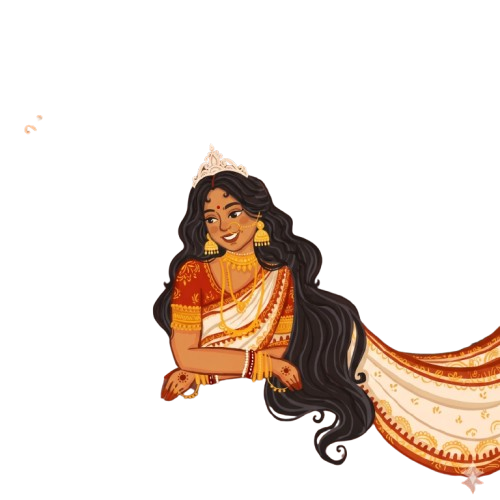
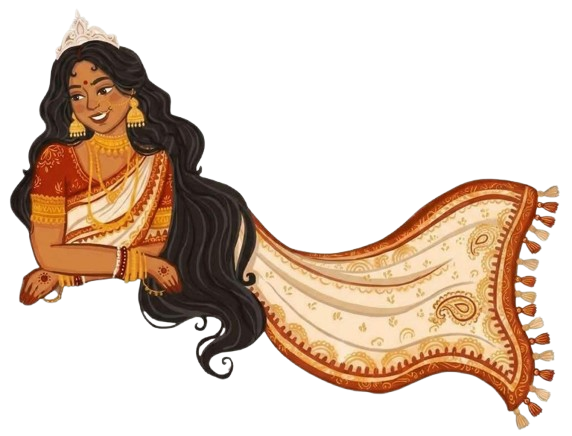
Phase 5: Scene 10 complete saree, 3-layer bike wheels, static background, and lower desktop text

diff --git a/src/scenes/scenes10to11.js b/src/scenes/scenes10to11.js
@@ -134,8 +134,6 @@ export function initScenes10to11(petals, prefersReducedMotion) {
 
   // --- SCENE 10 ---
   if (scene10) {
-    const isDesktop = window.innerWidth >= 1024;
-    const bgCanvas = scene10.querySelector('.s10-bg-canvas');
     const brideCanvas = scene10.querySelector('.s10-bride-canvas');
     const groomWrap = scene10.querySelector('.s10-groom-wrap');
     const chassis = scene10.querySelector('.s10-bike-chassis');
@@ -143,69 +141,16 @@ export function initScenes10to11(petals, prefersReducedMotion) {
     const titleBlock = scene10.querySelector('.s10-title-block');
     const detailsBlock = scene10.querySelector('.s10-details-block');
 
-    // Size background canvas to stage
-    const syncBgSize = () => {
-      if (!bgCanvas) return;
-      const rect = bgCanvas.getBoundingClientRect();
-      bgCanvas.width = Math.max(360, Math.round(rect.width));
-      bgCanvas.height = Math.max(540, Math.round(rect.height));
-    };
-    syncBgSize();
-
-    // Weighted mesh warp for background leaf tips only (pots, wall, window, road stay still)
-    const bgSrc = isDesktop ? '/assets/p10-desktop-background.webp' : '/assets/p10-background.webp';
-    const bgWarp = createWeightedMeshWarp(bgCanvas, bgSrc, 22, 22, (u, v, t) => {
+    // Weighted mesh warp for Bride (572x436): ONLY outer hair ends & saree trail wave; face, body, hands, jewellery stay still
+    const brideWarp = createWeightedMeshWarp(brideCanvas, '/assets/p10-bride.webp', 22, 18, (u, v, t) => {
       if (t === 0) return { wx: 0, wy: 0 };
-      let wx = 0, wy = 0;
-
-      if (isDesktop) {
-        // Top-left hanging vines (tips hang down from top edge)
-        const tl = (1 - smoothstep(0.0, 0.36, u)) * smoothstep(0.05, 0.42, v) * (1 - smoothstep(0.42, 0.50, v));
-        wx += tl * Math.sin(t * 1.15 + v * 5) * 4.5;
-        wy += tl * Math.cos(t * 0.95 + u * 4) * 1.5;
-
-        // Top-right hanging vines
-        const tr = smoothstep(0.64, 1.0, u) * smoothstep(0.05, 0.42, v) * (1 - smoothstep(0.42, 0.50, v));
-        wx += tr * Math.sin(t * 1.0 + 1.4 + v * 5) * 4.5;
-
-        // Window hanging pothos tips (around u: 0.58-0.65, v: 0.22-0.35)
-        const wp = smoothstep(0.57, 0.61, u) * (1 - smoothstep(0.64, 0.67, u)) * smoothstep(0.20, 0.32, v) * (1 - smoothstep(0.32, 0.38, v));
-        wx += wp * Math.sin(t * 1.4 + 2.2) * 3.5;
-
-        // Lower-left potted plant tips (above pots v: 0.43-0.73, pots sit at v > 0.75)
-        const ll = (1 - smoothstep(0.18, 0.35, u)) * smoothstep(0.73, 0.45, v) * smoothstep(0.38, 0.48, v);
-        wx += ll * Math.sin(t * 0.9 + 0.7 + u * 6) * 4.0;
-      } else {
-        // Mobile: top-left hanging vine tips
-        const tl = (1 - smoothstep(0.0, 0.56, u)) * smoothstep(0.04, 0.32, v) * (1 - smoothstep(0.32, 0.38, v));
-        wx += tl * Math.sin(t * 1.1 + v * 5) * 4.0;
-
-        // Mobile: window hanging pothos tips (right side)
-        const wp = smoothstep(0.88, 0.94, u) * smoothstep(0.18, 0.26, v) * (1 - smoothstep(0.26, 0.32, v));
-        wx += wp * Math.sin(t * 1.45 + 1.8) * 3.2;
-
-        // Mobile: left potted monstera tips (pot is below v=0.72)
-        const ll = (1 - smoothstep(0.10, 0.25, u)) * smoothstep(0.72, 0.55, v) * smoothstep(0.50, 0.57, v);
-        wx += ll * Math.sin(t * 0.95 + 0.6) * 3.5;
-
-        // Mobile: right lower plant tips (pot below v=0.76)
-        const rl = smoothstep(0.78, 0.92, u) * smoothstep(0.76, 0.62, v) * smoothstep(0.58, 0.65, v);
-        wx += rl * Math.sin(t * 1.2 + 2.6) * 3.5;
-      }
-
-      return { wx, wy };
-    });
-
-    // Weighted mesh warp for Bride: ONLY outer hair ends & saree trail wave; face, body, hands, jewellery stay still
-    const brideWarp = createWeightedMeshWarp(brideCanvas, '/assets/p10-bride.webp', 20, 20, (u, v, t) => {
-      if (t === 0) return { wx: 0, wy: 0 };
-      const hairWeight = smoothstep(0.57, 0.72, u) * smoothstep(0.55, 0.85, v);
-      const sareeWeight = smoothstep(0.72, 0.95, u) * smoothstep(0.58, 0.86, v);
+      const hairWeight = smoothstep(0.28, 0.42, u) * (1 - smoothstep(0.46, 0.54, u)) * smoothstep(0.56, 0.88, v);
+      const sareeWeight = smoothstep(0.45, 0.72, u) * smoothstep(0.42, 0.78, v);
       const w = Math.max(hairWeight, sareeWeight);
       if (w <= 0) return { wx: 0, wy: 0 };
       return {
-        wx: w * Math.sin(t * 1.6 + v * 5.0 + u * 2.0) * 5.5,
-        wy: w * Math.cos(t * 1.3 + u * 4.5) * 3.5,
+        wx: w * Math.sin(t * 1.5 + v * 5.0 + u * 2.0) * 5.0,
+        wy: w * Math.cos(t * 1.25 + u * 4.5) * 3.5,
       };
     });
 
@@ -291,7 +236,6 @@ export function initScenes10to11(petals, prefersReducedMotion) {
       end: 'bottom 18%',
       onEnter: () => {
         if (!prefersReducedMotion) {
-          bgWarp.start();
           brideWarp.start();
           bounceTween?.restart();
           entryTl?.restart();
@@ -299,19 +243,16 @@ export function initScenes10to11(petals, prefersReducedMotion) {
       },
       onEnterBack: () => {
         if (!prefersReducedMotion) {
-          bgWarp.start();
           brideWarp.start();
           bounceTween?.restart();
           entryTl?.restart();
         }
       },
       onLeave: () => {
-        bgWarp.stop();
         brideWarp.stop();
         resetEntry();
       },
       onLeaveBack: () => {
-        bgWarp.stop();
         brideWarp.stop();
         resetEntry();
       },

diff --git a/src/styles/scenes10to11.css b/src/styles/scenes10to11.css
@@ -14,11 +14,13 @@
   overflow: hidden;
 }
 
-.s10-bg-canvas {
+.s10-bg {
   position: absolute;
   inset: 0;
   width: 100%;
   height: 100%;
+  object-fit: cover;
+  object-position: center bottom;
   display: block;
   pointer-events: none;
   user-select: none;
@@ -26,9 +28,9 @@
 
 .s10-bride-wrap {
   position: absolute;
-  top: 9.5%;
-  right: -1%;
-  width: 53%;
+  top: 16%;
+  right: 2%;
+  width: 52%;
   z-index: 3;
   pointer-events: none;
   user-select: none;
@@ -68,30 +70,49 @@
   user-select: none;
 }
 
-/* Punch out only the inner spoke circles so fenders, fork, exhaust & rider never rotate */
+/* Layer 1: Base bike with full wheel circles punched out */
 .s10-groom-bike--body {
+  z-index: 1;
   -webkit-mask-image:
-    radial-gradient(ellipse 6.3% 11.3% at 19.43% 80.70%, transparent 96%, #000 100%),
-    radial-gradient(ellipse 6.5% 11.65% at 50.90% 81.64%, transparent 96%, #000 100%);
+    radial-gradient(ellipse 9.2% 16.5% at 19.43% 80.70%, transparent 96%, #000 100%),
+    radial-gradient(ellipse 9.5% 17.0% at 50.90% 81.64%, transparent 96%, #000 100%);
   -webkit-mask-composite: source-in;
   mask-image:
-    radial-gradient(ellipse 6.3% 11.3% at 19.43% 80.70%, transparent 96%, #000 100%),
-    radial-gradient(ellipse 6.5% 11.65% at 50.90% 81.64%, transparent 96%, #000 100%);
+    radial-gradient(ellipse 9.2% 16.5% at 19.43% 80.70%, transparent 96%, #000 100%),
+    radial-gradient(ellipse 9.5% 17.0% at 50.90% 81.64%, transparent 96%, #000 100%);
   mask-composite: intersect;
 }
 
+/* Layer 2: Rotating wheels only (spokes, rim, tyre) */
 .s10-wheel {
+  z-index: 2;
   will-change: transform;
 }
 
 .s10-wheel--rear {
-  clip-path: circle(7.8% at 19.43% 80.70%);
+  clip-path: circle(11.4% at 19.43% 80.70%);
   transform-origin: 19.43% 80.70%;
 }
 
 .s10-wheel--front {
-  clip-path: circle(8.05% at 50.90% 81.64%);
+  clip-path: circle(11.8% at 50.90% 81.64%);
   transform-origin: 50.90% 81.64%;
+}
+
+/* Layer 3: Static foreground (silencer, shock absorber, fender, chain/swingarm, rider's foot, front fork & brake) */
+.s10-bike-fg {
+  z-index: 3;
+}
+
+.s10-bike-fg--rear {
+  clip-path: polygon(
+    6% 62%, 28% 62%, 32% 75%, 32% 87%, 7% 87%, 7% 77%,
+    17% 77%, 17% 70%, 6% 70%
+  );
+}
+
+.s10-bike-fg--front {
+  clip-path: polygon(45% 63%, 51.5% 63%, 53.5% 83.5%, 48% 84.5%, 46% 74%);
 }
 
 .s10-text-layer {
@@ -186,10 +207,10 @@
   }
   /* Window opening in p10-desktop-background is around left 47.6%-64.6%, top 14%-39.5% */
   .s10-bride-wrap {
-    top: 13.5%;
-    left: 44.5%;
+    top: 18%;
+    left: 48%;
     right: auto;
-    width: clamp(205px, 19.5vw, 310px);
+    width: clamp(230px, 21vw, 340px);
   }
   /* Groom & bike at lower left */
   .s10-groom-wrap {
@@ -213,10 +234,10 @@
   .s10-quote {
     font-size: clamp(0.95rem, 1.15vw, 1.25rem);
   }
-  /* Second paragraph & dates below the window towards centre */
+  /* Second paragraph & dates moved down below window/saree/hair */
   .s10-details-block {
-    top: 46%;
-    left: 46%;
+    top: 57%;
+    left: 48%;
     right: auto;
     width: 26%;
     gap: 0.65rem;

diff --git a/index.html b/index.html
@@ -273,19 +273,24 @@
     <!-- Normal Section [10] -->
     <section id="scene-10" class="section-scene scene--10" data-scene="10" data-petals="false">
       <div class="s10-stage">
-        <canvas class="s10-bg-canvas" aria-hidden="true"></canvas>
+        <picture>
+          <source media="(min-width: 1024px)" srcset="/assets/p10-desktop-background.webp" />
+          <img src="/assets/p10-background.webp" alt="" class="s10-bg" loading="lazy" />
+        </picture>
 
         <!-- Bride leaning from the arched window (weighted mesh warp on outer hair & saree trail) -->
         <div class="s10-bride-wrap">
-          <canvas width="500" height="500" class="s10-bride-canvas" aria-label="Aindrila"></canvas>
+          <canvas width="572" height="436" class="s10-bride-canvas" aria-label="Aindrila"></canvas>
         </div>
 
-        <!-- Groom riding in on motorbike (masked wheel layers + chassis bounce) -->
+        <!-- Groom riding in on motorbike (3-layer: base -> rotating wheels -> static foreground parts) -->
         <div class="s10-groom-wrap">
           <div class="s10-bike-chassis">
             <img src="/assets/p10-groom-bike.webp" alt="Pabitrarghya on motorbike" class="s10-groom-bike s10-groom-bike--body" loading="lazy" />
             <img src="/assets/p10-groom-bike.webp" alt="" class="s10-groom-bike s10-wheel s10-wheel--rear" aria-hidden="true" loading="lazy" />
             <img src="/assets/p10-groom-bike.webp" alt="" class="s10-groom-bike s10-wheel s10-wheel--front" aria-hidden="true" loading="lazy" />
+            <img src="/assets/p10-groom-bike.webp" alt="" class="s10-groom-bike s10-bike-fg s10-bike-fg--rear" aria-hidden="true" loading="lazy" />
+            <img src="/assets/p10-groom-bike.webp" alt="" class="s10-groom-bike s10-bike-fg s10-bike-fg--front" aria-hidden="true" loading="lazy" />
           </div>
         </div>
 

diff --git a/SPEC.md b/SPEC.md
@@ -122,8 +122,8 @@ English: We Look Forward to Your Presence! | Only | Days | Hours | Minutes | Sec
 - **Scene 10 (Desktop, Mobile, Entry, Wheels & Wind)**:
   - **Desktop (`>=1024px`)**: Full-screen `assets/p10-desktop-background.png` (no side bars), heading/names/first paragraph at upper left-centre, bride in window at upper right, second paragraph/dates below window towards centre, groom & bike at lower left; whole window, bride, bike, and text visible at `1366×768` and `1920×1080`.
   - **Mobile (`<1024px`)**: Matches `page-10.png` with both shutters and complete bride visible, heading/names strictly left of window shutter, paragraphs clear of window/bride/bike (`360×640` and `390×844`).
-  - **Groom Entry & Wheels**: Starts fully off-screen left; begins only after Scene 10 is almost fully in view, riding in over ~5s (time-based, easing smoothly to a stop) and replaying only after leaving and returning. Masked wheel layers rotate both wheels while moving and stop with the bike (fenders, fork, exhaust, rider never rotate; no double wheels; slight engine bounce). Text appears after bike stops.
-  - **Wind**: Weighted mesh warp on `p10-bride.png` outer hair ends & saree trail (face, body, hands, jewellery still) and on background leaf tips swaying from their stems with varied timing (pots, wall, window, road still; no gaps or duplicate leaves).
+  - **Groom Entry & Wheels**: Starts fully off-screen left; begins only after Scene 10 is almost fully in view, riding in over ~5s (time-based, easing smoothly to a stop) and replaying only after leaving and returning. Three-layer bike stack (base → rotating wheels → static foreground masking silencer, shock absorber, fender, chain area, rider's foot, front fork & brake parts) with a subtle engine bounce while moving; text appears after bike stops.
+  - **Wind**: Background (`p10-background.webp` / `p10-desktop-background.webp`) is completely static (wall, window, road, pots, and plants stay still). Weighted mesh warp on `p10-bride.png` (`572×436`, complete saree end visible) waves only the outer hair ends and saree trail (face, body, hands, jewellery still). On desktop, second paragraph & dates sit lower so they never overlap saree or hair.
 - **Scene 11 Scrolls**: Rotate `assets/scroll-paper.png` 90 degrees to match `page-11.png` (rollers left and right), and unroll from the centre outward on scroll (first one scroll, then the other) via clipping reveal while keeping text upright.
 - **Image cleanup**: Leave the Gemini corner mark on `bride.png` and `p10-bride.png` as-is; remove only the stray orange specks on `p10-bride.png`.
 - **Petal layering**: Strict root stacking order on all petal scenes (`3–9`, `11`, `14`): cream `body` background → `#petal-layer` (`position: fixed; z-index: 1`) → `#app` (`position: relative; z-index: 2`, transparent backgrounds on petal scenes so petals stay strictly behind all characters, family pictures, text, betel leaves, elephants, cloth knot, info boxes, scrolls, and countdown boxes) → language toggle (`z-index: 100`).
